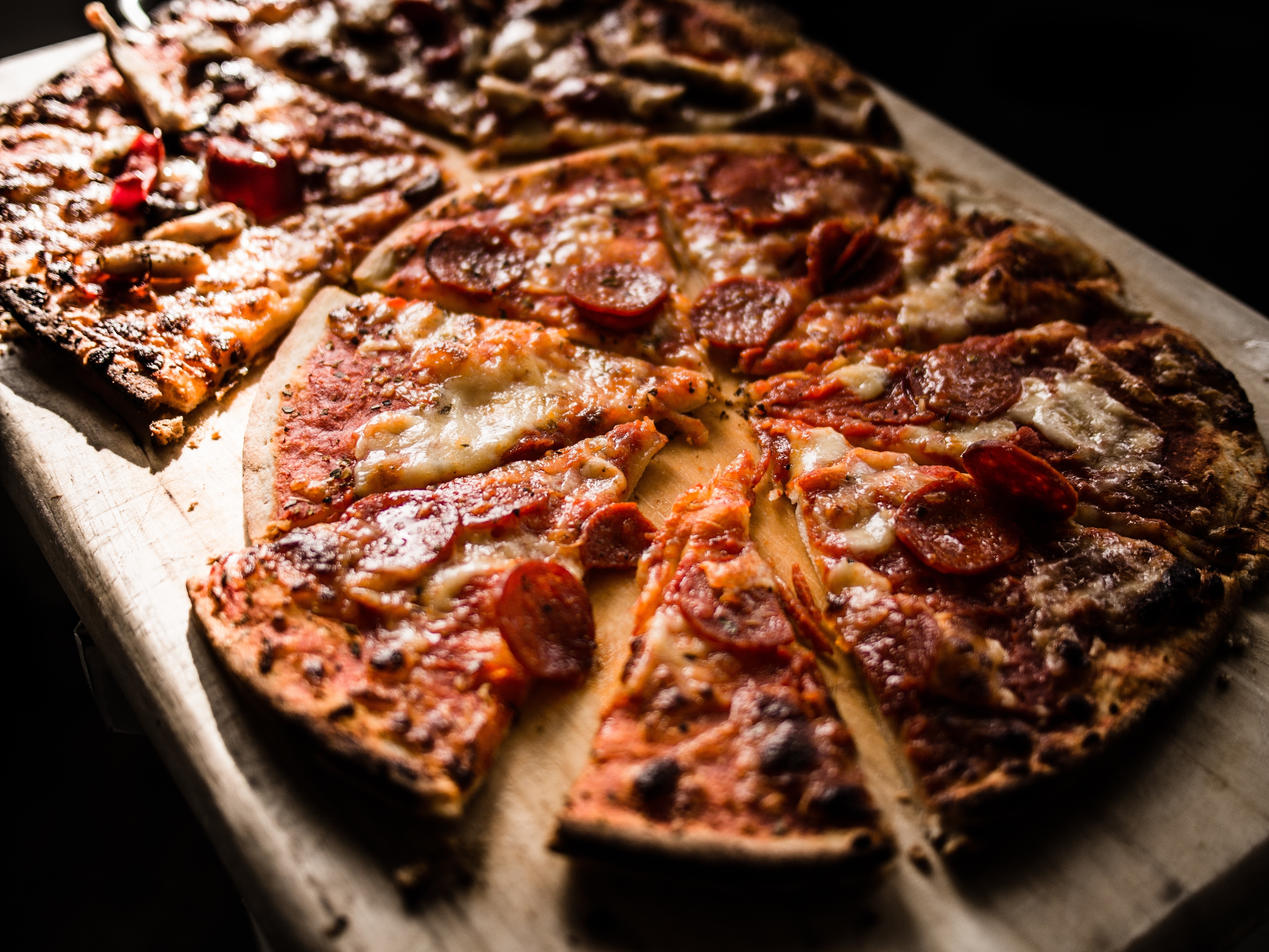
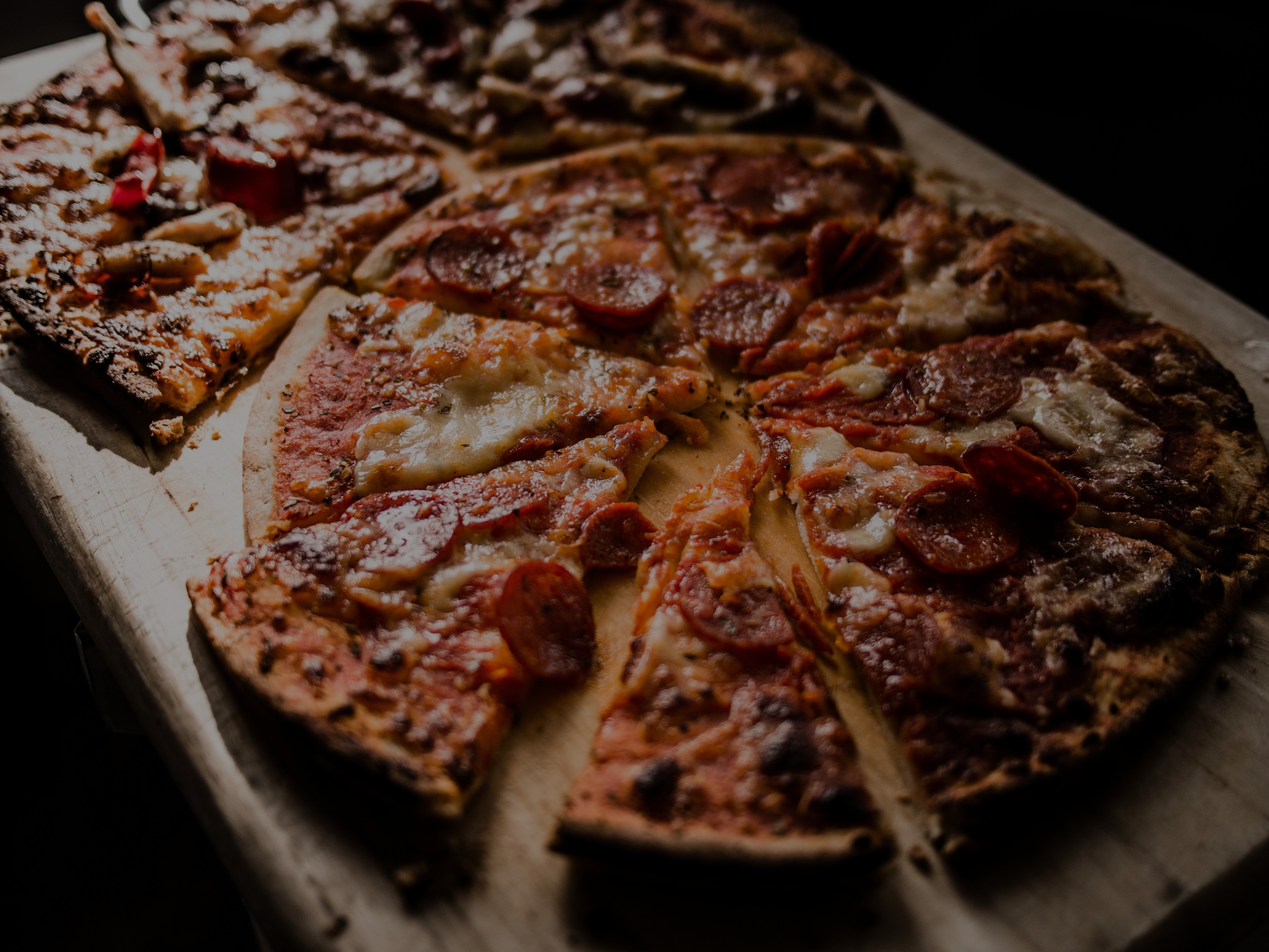
image fixed made

diff --git a/components/categories/Categories.tsx b/components/categories/Categories.tsx
@@ -46,6 +46,13 @@ const Categories = () => {
       </div>
 
       {/* {search input} */}
+      <div className="px-4 mt-5">
+        <input
+          type="text"
+          className="min-w-full bg-whiteColor border-none focus:border-none rounded-2xl focus:ring-0 "
+          placeholder="Search for resturants"
+        />
+      </div>
 
       <div id="menuScroll" className="mt-6 px-4">
         <h1 className="font-medium px-2 py-4">Categories</h1>
@@ -62,7 +69,7 @@ const Categories = () => {
 
       <div>
         <h1 className="px-6 py-4">Populer</h1>
-        <div className="flex flex-col gap-[100px]">
+        <div className="flex flex-col gap-3 mb-4">
           <CategoriesCard />
           <CategoriesCard />
           <CategoriesCard />

diff --git a/components/categories/CategoriesCard.tsx b/components/categories/CategoriesCard.tsx
@@ -3,14 +3,14 @@ import { FaStar } from "react-icons/fa";
 const CategoriesCard = () => {
   return (
     <>
-      <div id="categoriesCardContainer" className="w-[365px] mx-auto h-[219PX] px-4 rounded-t-lg">
+      <div id="categoriesCardContainer" className="px-6 rounded-t-lg">
         <div id="cardHeader">
           <div id="imgContainer">
             <img
               src="https://images.freekaamaal.com/post_images/1606817930.jpg"
               alt=""
-              className="block w-full object-cover rounded-t-3xl"
-            />{" "}
+              className="block w-full object-contain rounded-t-3xl"
+            />
             {/* product image*/}
           </div>
         </div>

diff --git a/components/menu/Menu.tsx b/components/menu/Menu.tsx
@@ -8,7 +8,7 @@ const Welcome = () => {
       <section className="relative min-w-full min-h-screen">
         <div
           id="menuHeaderConatiner"
-          className="flex flex-row justify-between items-center min-w-full h-40 px-4 bg-gray-800 bg-cover bg-no-repeat object-center text-white"
+          className="flex flex-row justify-between items-center min-w-full h-40 px-4 bg-menu bg-cover bg-no-repeat object-center text-white"
         >
           <div id="menuHeaderBack" className="flex flex-row items-center">
             <a className="inline-block bg-whiteColor p-2  rounded-md">
